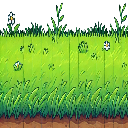
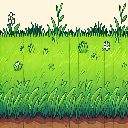
Feature_2024.12.29.05.25_地上の背景を実装

Changed region(s): [[0.0, 0.0, 1.0, 0.2812]]

diff --git a/app/map.py b/app/map.py
@@ -5,6 +5,7 @@ import random
 from characters.mole import Mole  # characters.moleクラスをインポート
 
 # タイル画像の読み込み
+sky_tile = pygame.image.load('assets/tiles/sky.png')
 ground_tile = pygame.image.load('assets/tiles/ground.png')
 digged_ground_tile = pygame.image.load('assets/tiles/digged_ground.png')
 underground_tile = pygame.image.load('assets/tiles/underground.png')
@@ -48,7 +49,9 @@ class Map:
                 tile_x = col_index * self.tile_size - camera.x
                 tile_y = row_index * self.tile_size - camera.y
 
-                if tile == 1:
+                if tile == 0:
+                    screen.blit(sky_tile, (tile_x, tile_y))
+                elif tile == 1:
                     screen.blit(ground_tile, (tile_x, tile_y))
                 elif tile == 2:
                     screen.blit(underground_tile, (tile_x, tile_y))
